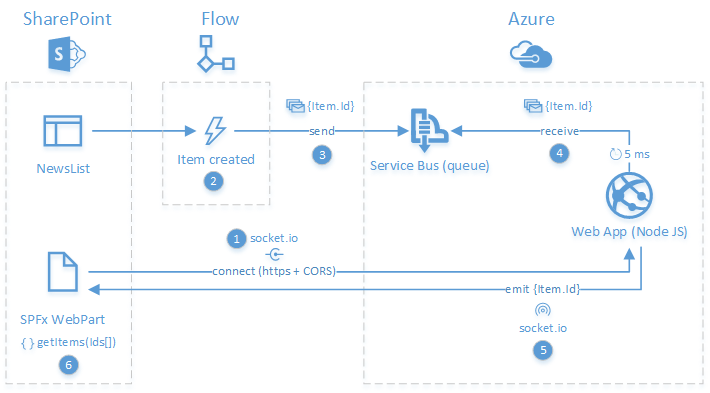
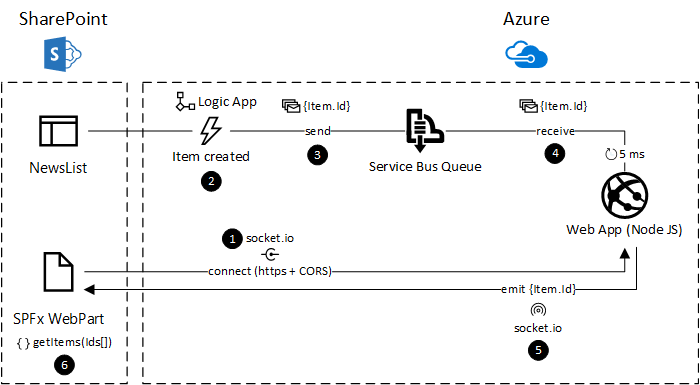
Replaced Microsoft Flow with Azure Logic Apps

diff --git a/samples/react-real-time/client/src/webparts/realTimeNewsFeed/components/RealTimeNewsFeed.tsx b/samples/react-real-time/client/src/webparts/realTimeNewsFeed/components/RealTimeNewsFeed.tsx
@@ -59,7 +59,7 @@ export default class RealTimeNewsFeed extends React.Component<IRealTimeNewsFeedP
   public componentDidMount(): void {
 
     // Connect to the server
-    const socket = io("https://SPFxSocketIOWebAppdde17113-805a-4806-b5e6-43dbb5f61b9f.azurewebsites.net");
+    const socket = io("https://WebAppac61f1b1-ecd7-4bc0-ad7d-619b0df1f757.azurewebsites.net");
 
     // Add the socket io listeners
     socket.on('item:added', (data) => {

diff --git a/samples/react-real-time/README.md b/samples/react-real-time/README.md
@@ -1,8 +1,8 @@
-# Real Time News Feed using Microsoft Flow, Azure and socket.io #
+# Real Time News Feed using Azure Logic Apps, Node.js and socket.io #
 
 ## Summary
 
-This sample shows you how to implement real time web parts using the SPFx, Microsoft Flow and [socket.io](http://socket.io/).
+This sample shows you how to implement real time web parts using the SPFx, Azure Logic Apps, Node.js and [socket.io](http://socket.io/).
 
 <p align="center">
   <img width="900" src="./assets/animated-demo.gif"/>
@@ -17,11 +17,11 @@ Here is the solution overview:
 </p>
 
 1. The SPFx Web Part first connects to the Azure web application via socket.io and subscribes to events (the web application have to be in https and allow cross domain calls (CORS)).
-2. Microsoft Flow is used to catch new item creation events in the SharPoint list.
+2. An Azure logic app is used to catch new item creation events in the SharPoint list.
 3. When an item is added, the flow sends its id to an Azure service bus queue using JSON format.
-4. A Node JS Azure web application listens to the queue and check for new messages every 5 ms.
+4. A Node.js Azure web application listens to the queue and check for new messages every 5 ms.
 5. When a new message is available, the web application emits the data to all subscribers via socket.io.
-6. The SPFx Web Part notifies user there are new items available. Items are effectively retrieved via REST according to received ids when the user clicks on the notification.
+6. The SPFx Web Part notifies user there are new items available. Items are effectively retrieved using REST according to received ids when the user clicks on the notification.
 
 ## Applies to
 
@@ -52,6 +52,7 @@ react-real-time | Franck Cornu (MVP, [@franckcornu](https://twitter.com/FranckCo
 Version|Date|Comments
 -------|----|--------
 1.0|October 25, 2016 | Initial commit
+1.1|November 4, 2016 | Replaced Microsoft Flow by Azure Logic Apps
 
 ## Disclaimer
 **THIS CODE IS PROVIDED *AS IS* WITHOUT WARRANTY OF ANY KIND, EITHER EXPRESS OR IMPLIED, INCLUDING ANY IMPLIED WARRANTIES OF FITNESS FOR A PARTICULAR PURPOSE, MERCHANTABILITY, OR NON-INFRINGEMENT.**
@@ -95,12 +96,13 @@ Version|Date|Comments
 
     $GitPublishingUserName = "tempdeployuser" + [Guid]::NewGuid();
     $GitPublishingUserPassword = "socketio123!"
+    $LogicAppName = "LogicApp" + [Guid]::NewGuid();
     $AzureSBNamespace = "ServiceBus" + [Guid]::NewGuid();
     $AzureWebAppName = "WebApp" + [Guid]::NewGuid()
     $AppServicePlanName = "ServicePlan" + [Guid]::NewGuid()
     $TemplateFilePath = ".\azure-deploy.json"
     $AzureResourceGroupLocation = "East US2"
-    $AzureResourceGroupName = "SPFxSocketIODemo"
+    $AzureResourceGroupName = "SPFxSocketIODemo2"
     $AzureRmResourceGroupDeploymentName = $AzureResourceGroupName 
     $ServerCodeFolderLocation = ".\server"
 
@@ -115,10 +117,10 @@ Version|Date|Comments
 
    You can let the `gulp serve` cmd running.
 
-6. Because there is no automated mechanism to provision new template in the Microsoft Flow application, you have to manually create the flow on the SharePoint list in your developer site.
-   Go the 'NewsList' and create a new flow from scratch and add the following steps:
+6. Because you have to configure your SharePoint connection with your own credentials, you need to create the worflow manually in the Azure logic app.
+ Go to your Azure portal, select the "*SPFxSocketIODemo*" resource group, and open the Logic App designer. From a blank template, add the following action.
 
-- **[Condition]** *"SharePoint - When a new item is created"*
+- **[Condition]** *"SharePoint - When a new item is created"*. Select 3 seconds interval.
 - **[Action]** *"Service Bus - Send Message"*
 
     <p align="center">
